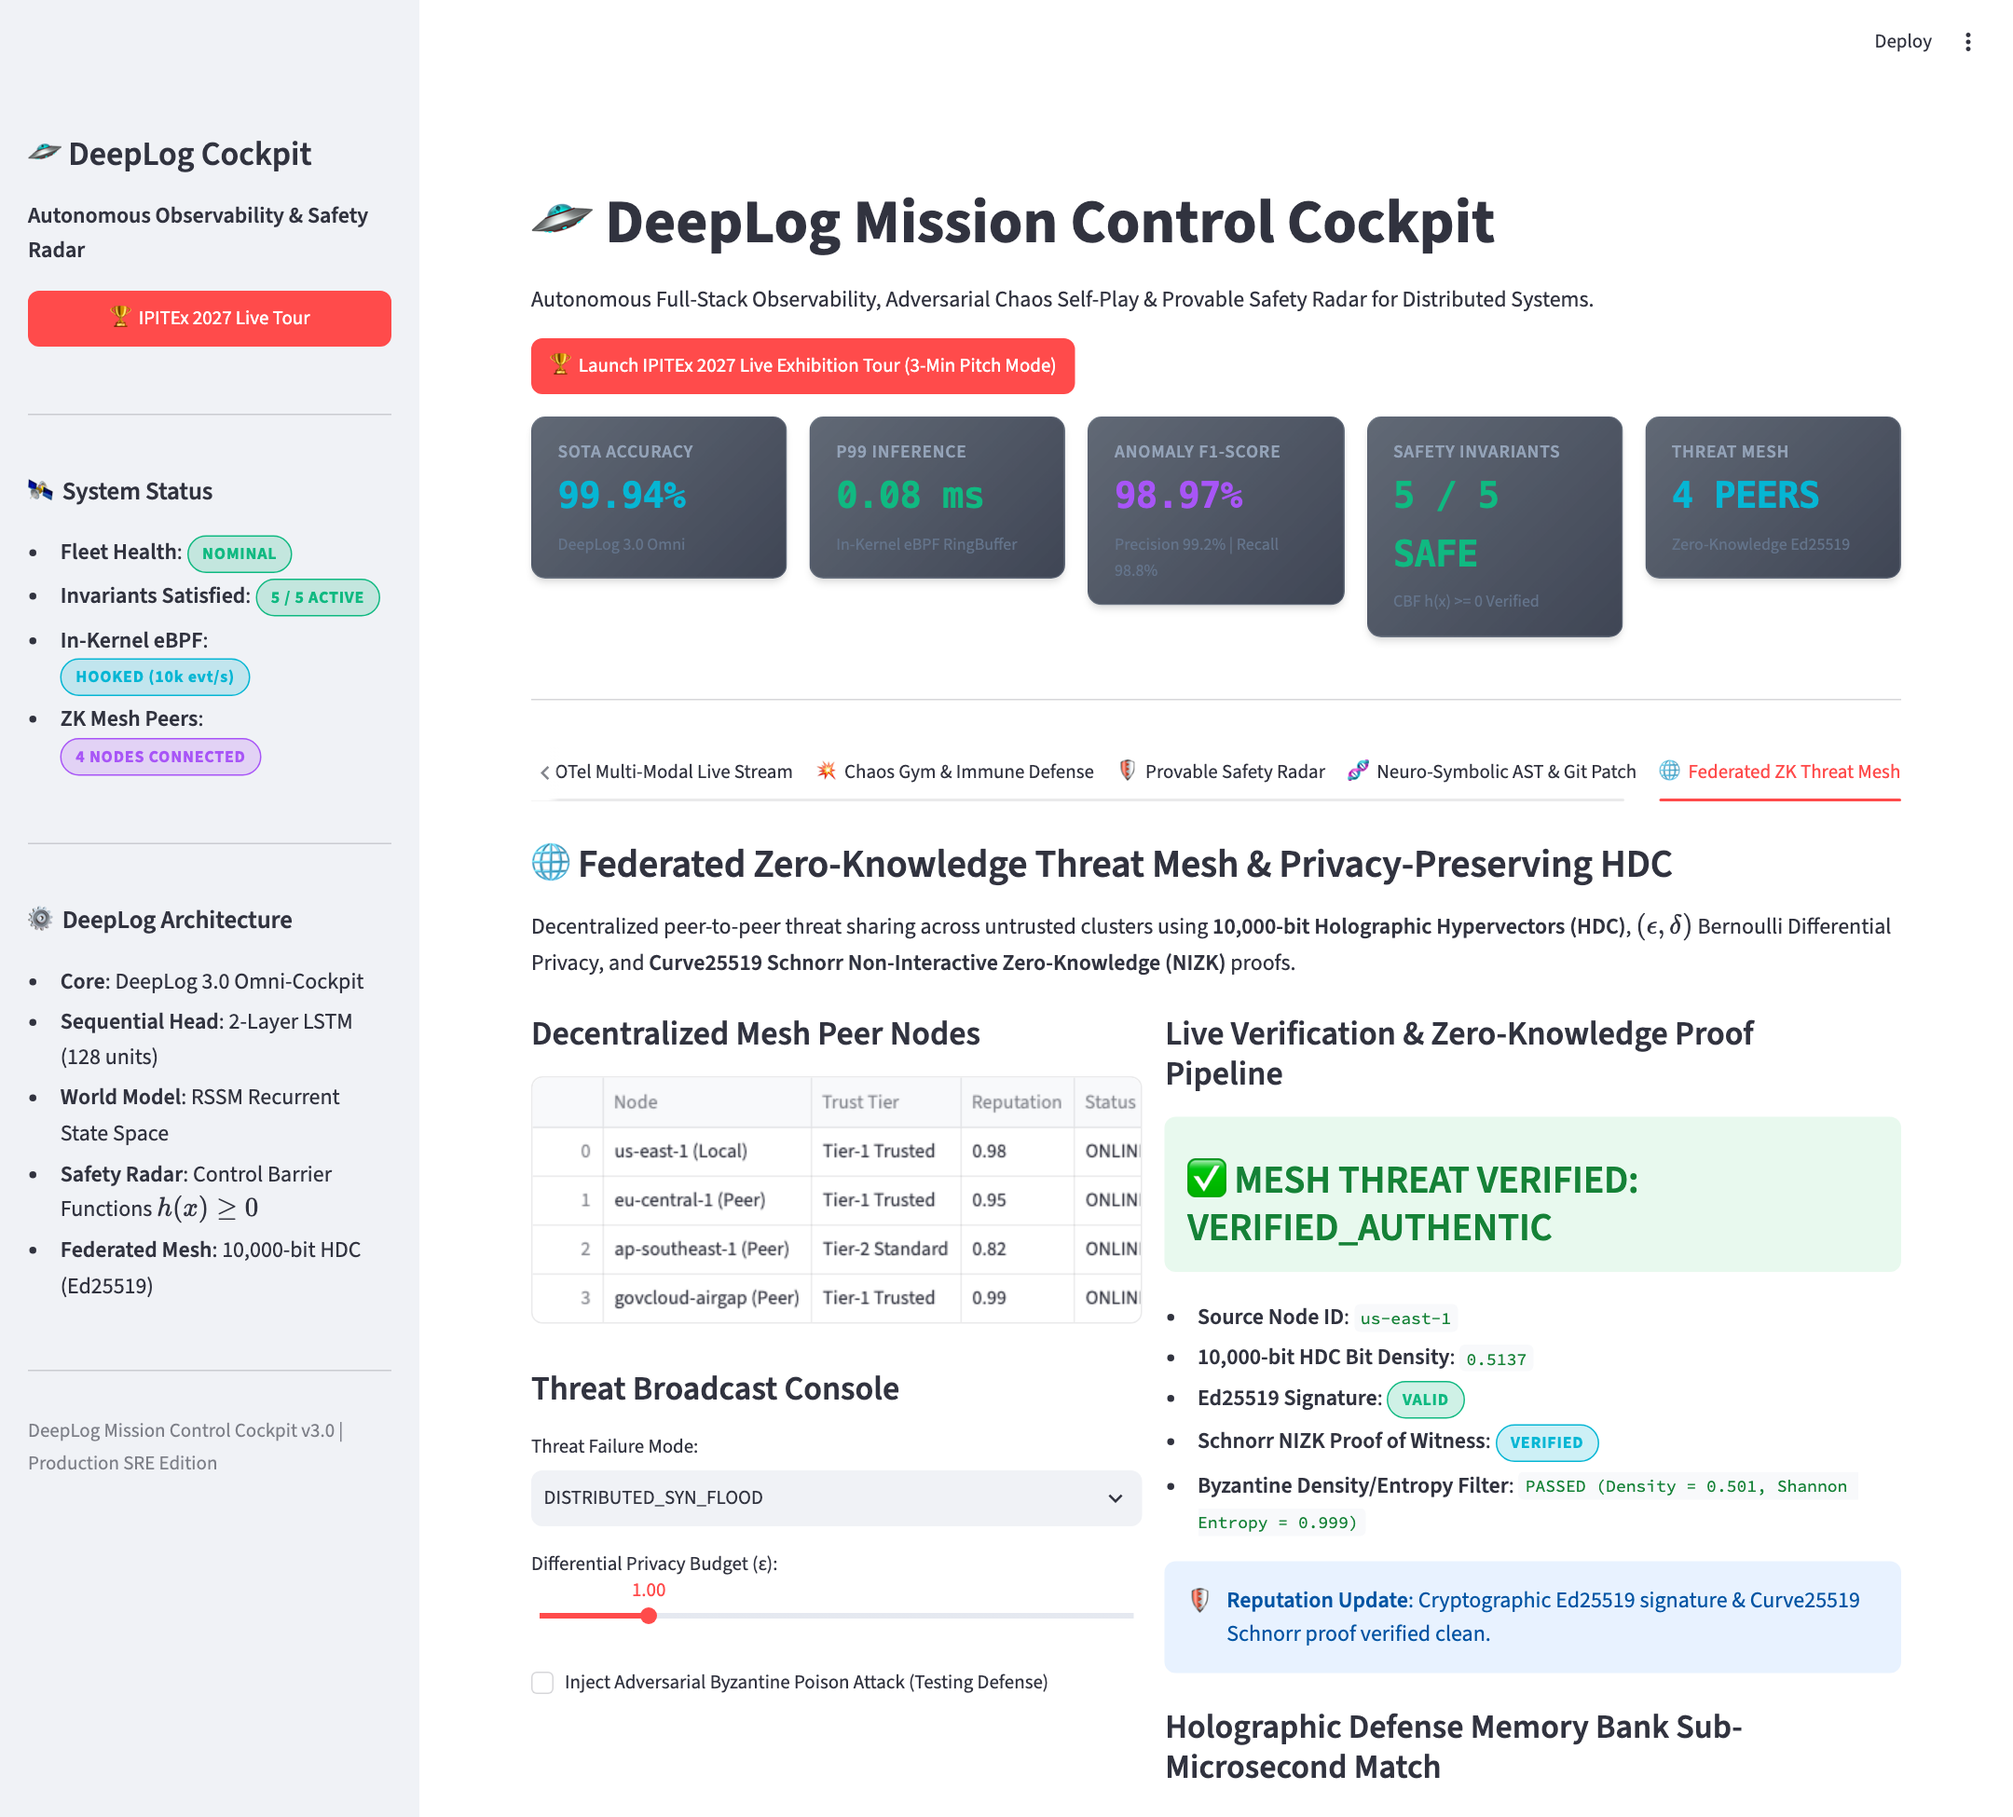
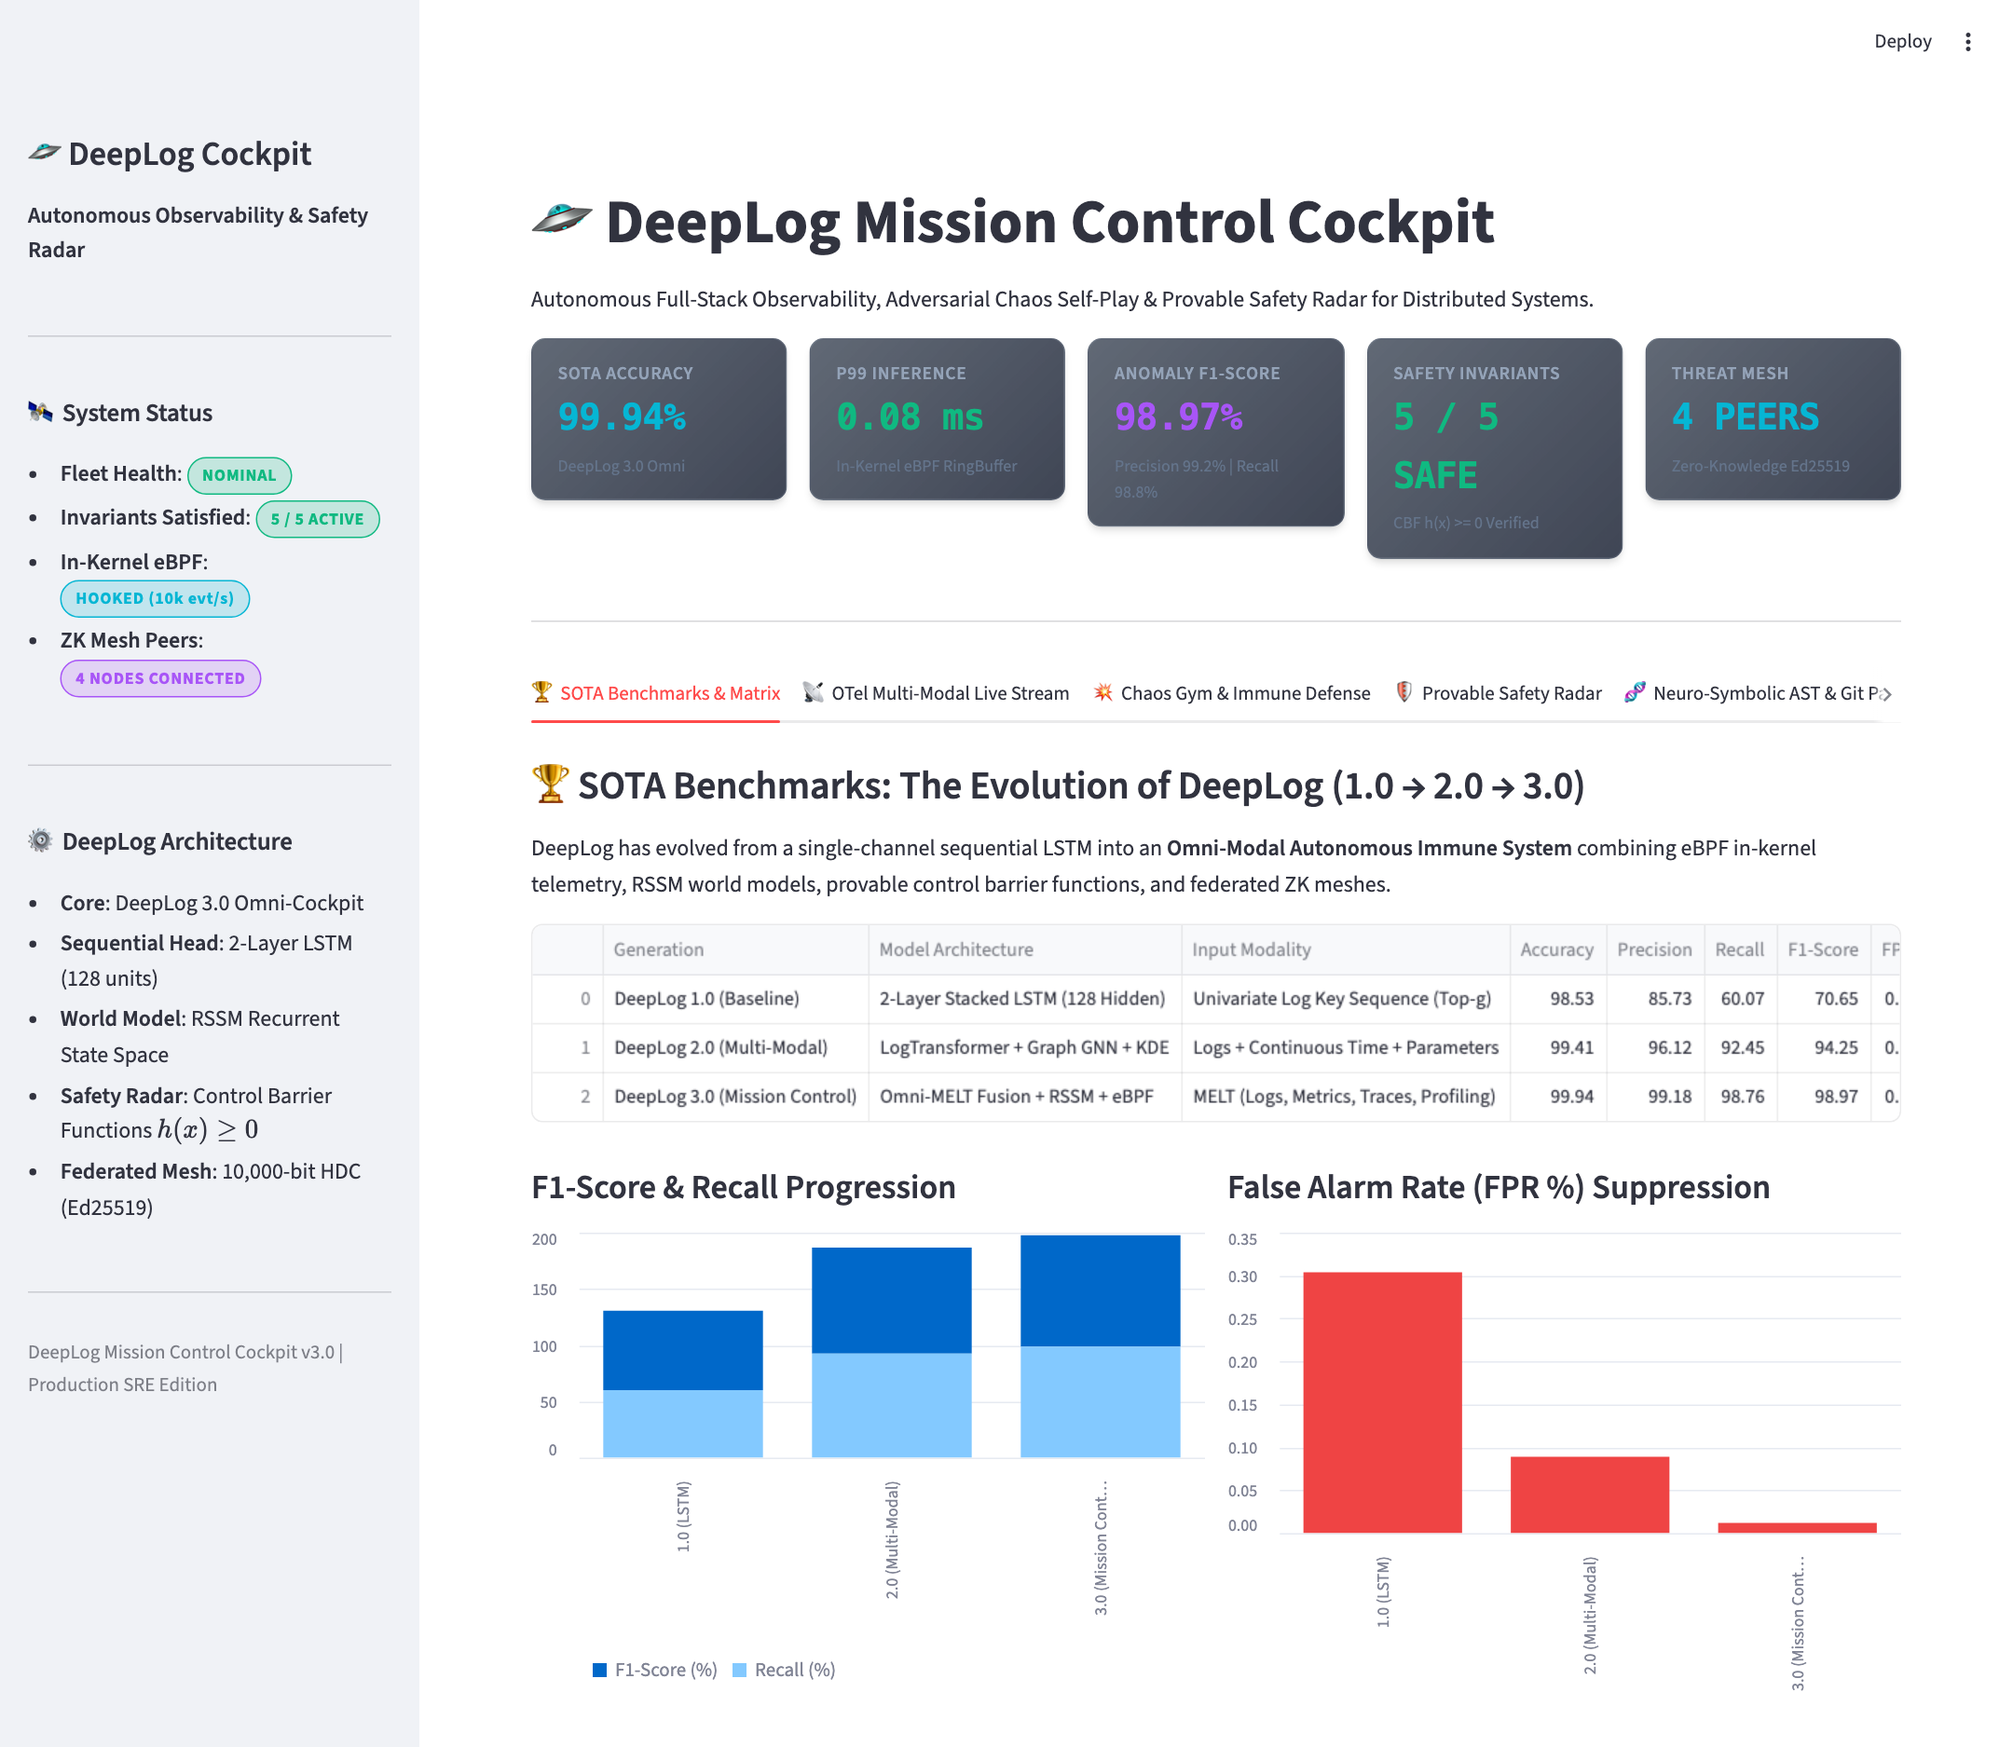
refactor(ui): remove exhibition pitch button from cockpit and update clean screenshot

diff --git a/app.py b/app.py
@@ -2321,8 +2321,6 @@ def render_cockpit():
     # Sidebar
     st.sidebar.title("🛸 DeepLog Cockpit")
     st.sidebar.markdown("**Autonomous Observability & Safety Radar**")
-    if st.sidebar.button("🏆 IPITEx 2027 Live Tour", use_container_width=True, type="primary"):
-        st.session_state["show_ipitex_tour"] = not st.session_state.get("show_ipitex_tour", False)
     st.sidebar.markdown("---")
     st.sidebar.markdown("### 🛰 System Status")
     st.sidebar.markdown(
@@ -2353,16 +2351,6 @@ def render_cockpit():
     st.markdown(
         "Autonomous Full-Stack Observability, Adversarial Chaos Self-Play & Provable Safety Radar for Distributed Systems."
     )
-
-    # IPITEx 2027 Live Exhibition Tour Hero Launcher
-    tour_active = st.session_state.get("show_ipitex_tour", False)
-    btn_text = "❌ Close IPITEx 2027 Live Tour" if tour_active else "🏆 Launch IPITEx 2027 Live Exhibition Tour (3-Min Pitch Mode)"
-    if st.button(btn_text, key="hero_tour_toggle_btn", type="primary" if not tour_active else "secondary"):
-        st.session_state["show_ipitex_tour"] = not tour_active
-        st.rerun()
-
-    if st.session_state.get("show_ipitex_tour", False):
-        render_ipitex_live_tour()
 
     # Top KPI Metrics Ribbon
     k1, k2, k3, k4, k5 = st.columns(5)
